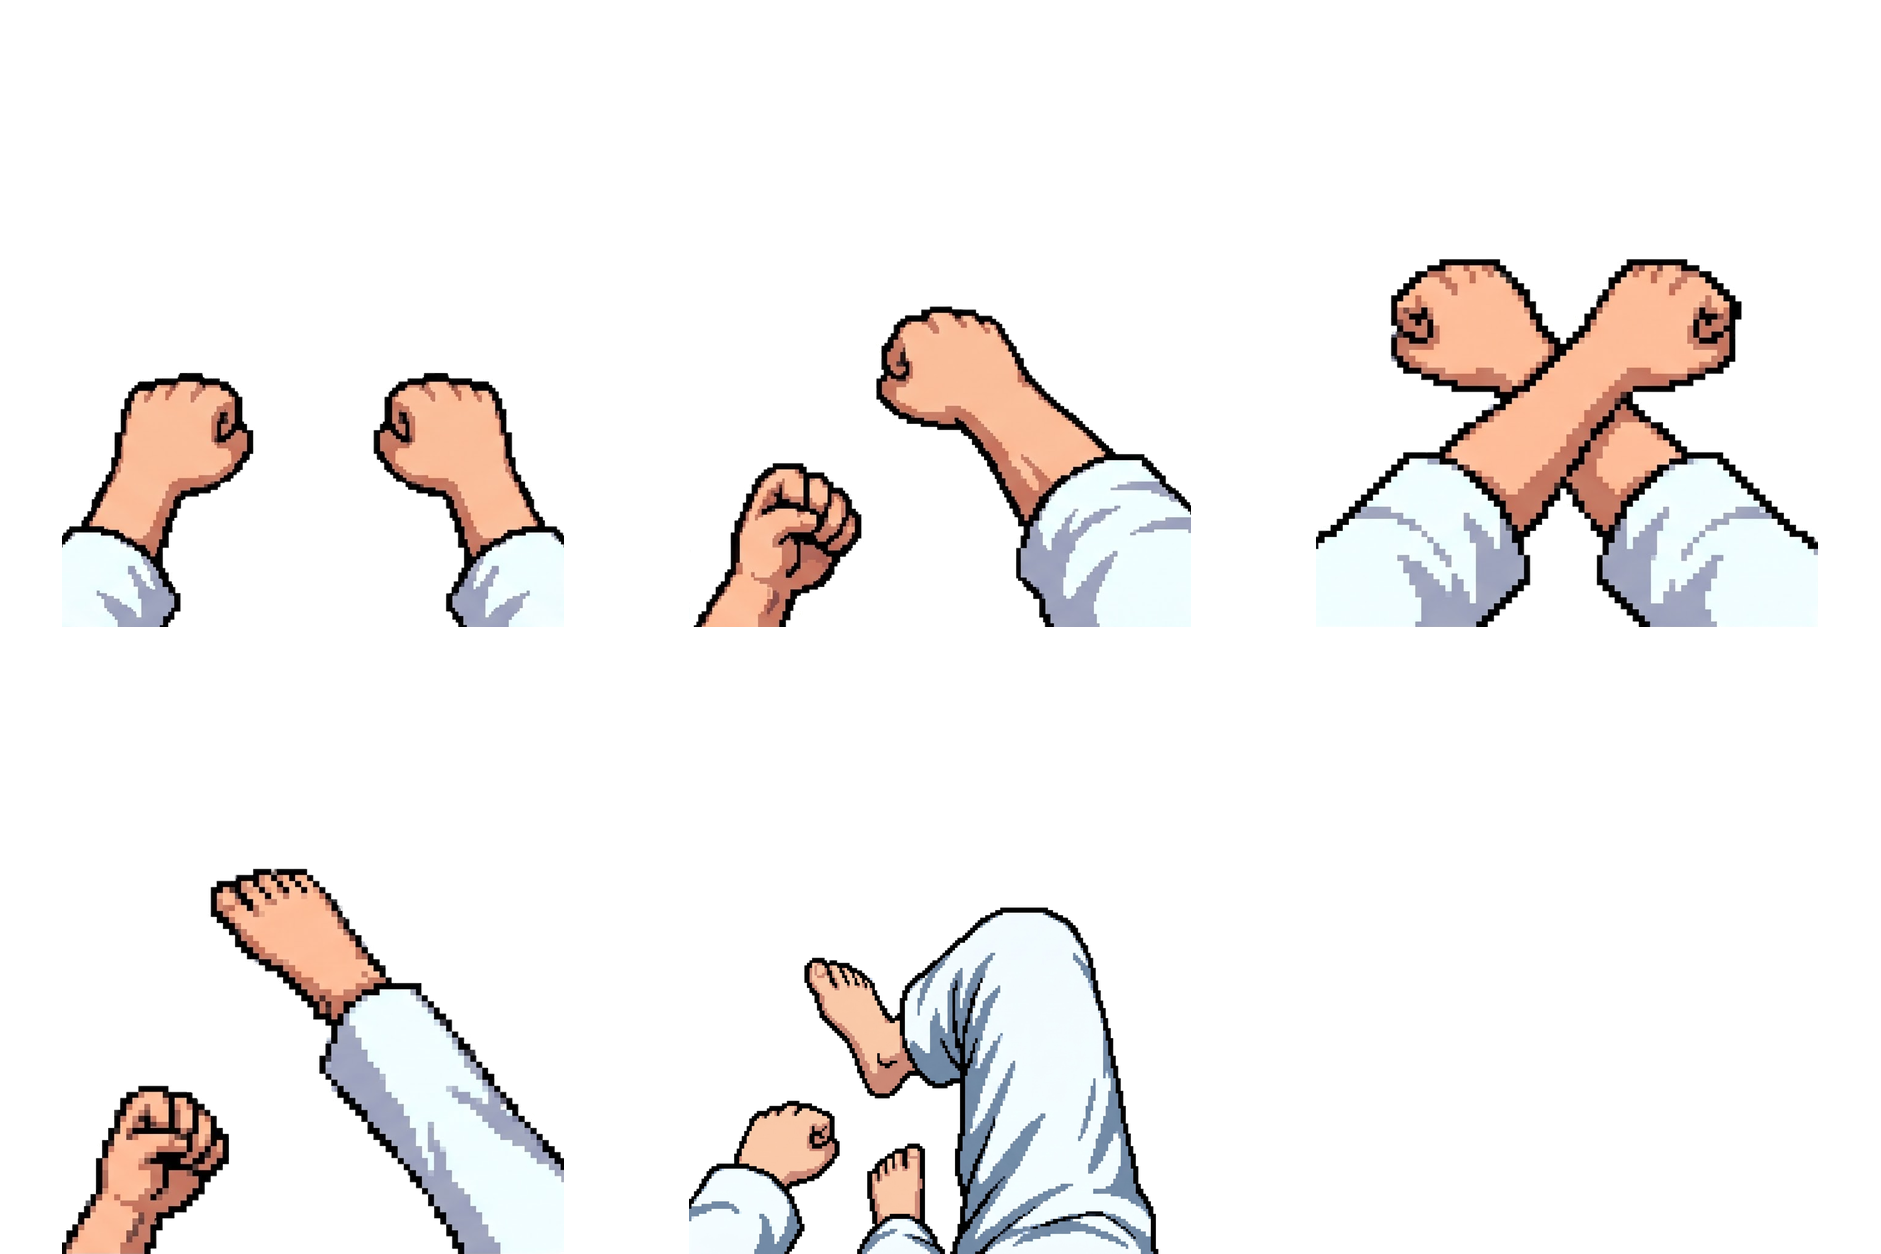
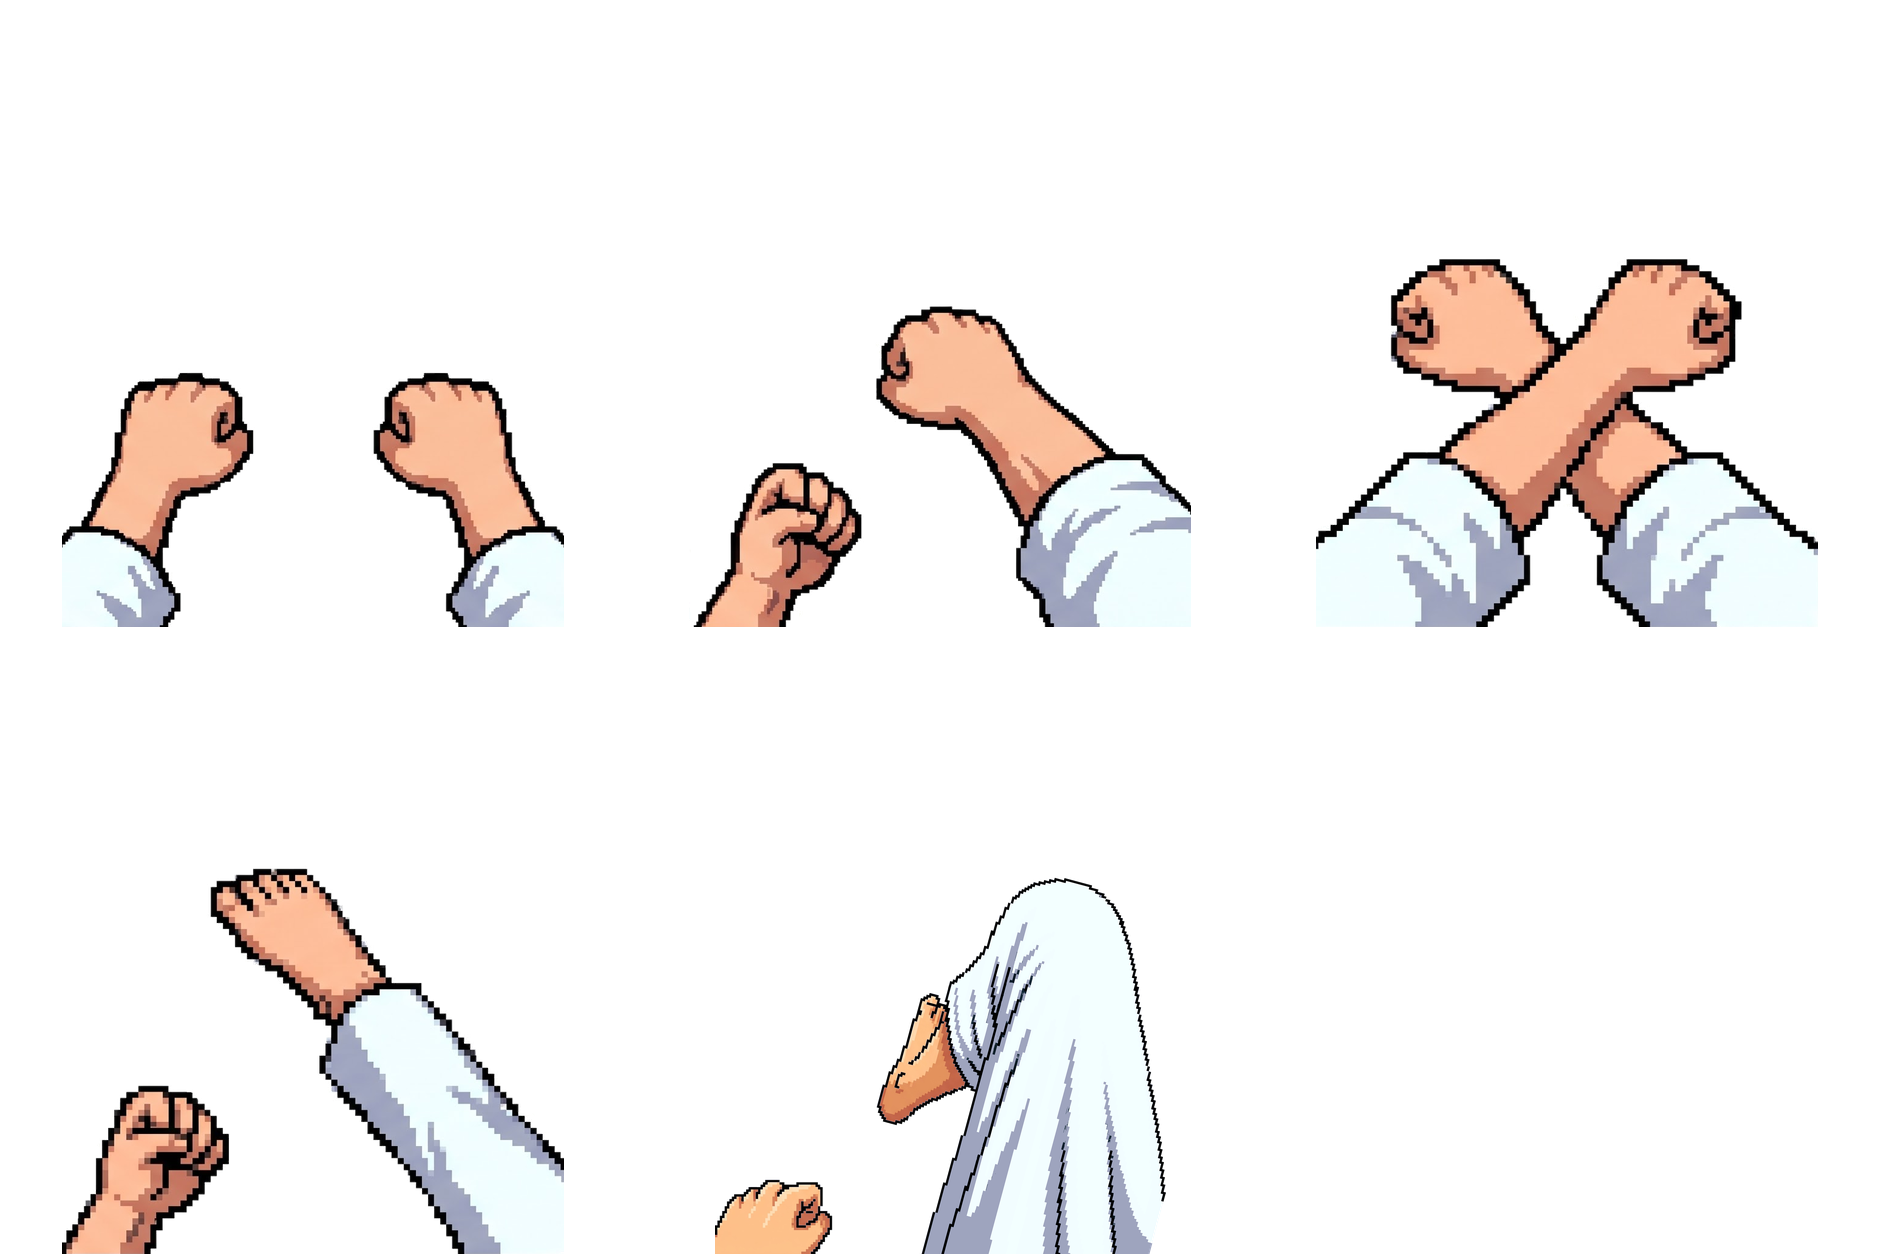
Reaction dojo: low block traced from the instructor's photo, recoloured and angled to 45 degrees
Claude-Session: https://claude.ai/code/session_01GPe7NTLQCYpuJm8yA2gNU2

Changed region(s): [[0.37, 0.6842, 0.6167, 1.0]]

diff --git a/sites/reaction-dojo/tools/build-fp-atlas.py b/sites/reaction-dojo/tools/build-fp-atlas.py
@@ -8,7 +8,7 @@ atlas=Image.new('RGBA',(cell*COLS,cell*2),(0,0,0,0))
 for i,name in enumerate(['guard','punch','block','kick','lowblock']):
     if not os.path.exists(os.path.join(src,name+'.png')): print('missing',name); continue
     im=Image.open(os.path.join(src,name+'.png')).convert('RGBA')
-    s=cell*0.8/max(im.size); im=im.resize((round(im.width*s),round(im.height*s)),Image.LANCZOS)
+    s=cell*(0.72 if name=='lowblock' else 0.8)/max(im.size); im=im.resize((round(im.width*s),round(im.height*s)),Image.LANCZOS)
     x=i%COLS*cell+(cell-im.width)//2; y=i//COLS*cell+(cell-im.height)   # bottom-aligned: sleeves enter from the frame bottom
     atlas.alpha_composite(im,(x,y)); print(name,im.size,'->',(x,y))
 atlas.save(out); print('atlas',atlas.size,'->',out)
